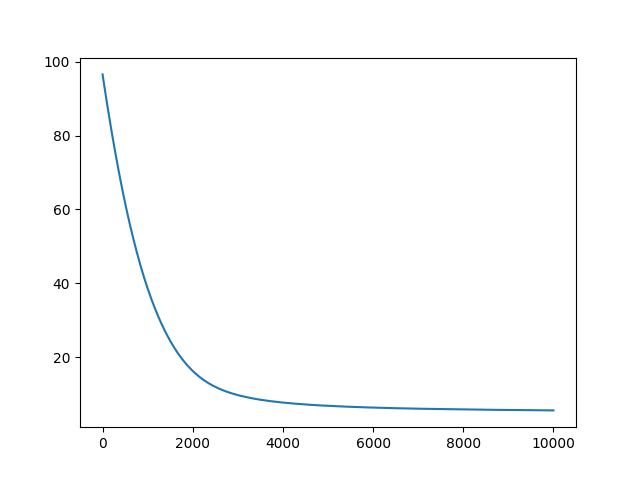
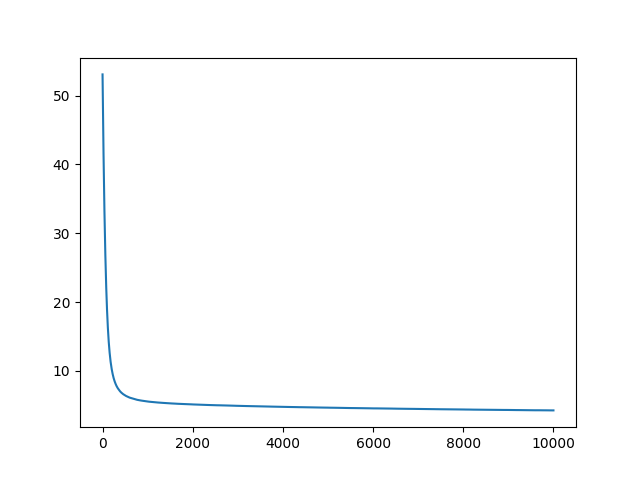
Add run.py

diff --git a/Log_reg.py b/Log_reg.py
@@ -21,17 +21,6 @@ def load_datasets():
     stats = np.array(stats)
     return stats, scores
 
-stats, scores = load_datasets()
-
-stats, min_vals, max_vals = normalize_stats(stats)
-scores = normalize_scores(scores) # normalize scores to 0 ~ 1, where 0 means 0 and 1 means 4
-
-# split datasets
-(x_train, y_train), (x_test, y_test), (x_eval, y_eval) = train_test_eval_split(stats, scores, test_ratio=0.1, eval_ratio=0.1)
-y_train = score_to_target(y_train)
-y_copy = y_test
-y_test = score_to_target(y_test)
-y_eval = score_to_target(y_eval)
 class LogisticRegression:
     def __init__(self, x_train, y_train, x_test, y_test, x_eval, y_eval):
         self._x_train = x_train
@@ -85,33 +74,46 @@ class LogisticRegression:
         prediction = self.sigmoid(x.reshape(1, size), weights)
         return np.argmax(prediction)
 
-# 학습
-log = LogisticRegression(x_train, y_train, x_test, y_test,x_eval,y_eval)
-weights, costs, eval_costs = log.learn(0.000001, 10000, 200)
-pre_cnt = 0
-pre_wr = 0
-for i in range (len(x_test)):
-    prediction = log.predict(x_test[i], weights)
-    s1 = int(prediction/5)
-    s2 = prediction%5
-    reals1 = y_copy[i][0]*4
-    reals2 = y_copy[i][1]*4
-    if s1>s2 and reals1>reals2:
-        pre_wr +=1
-    elif s1==s2 and reals1==reals2:
-        pre_wr +=1
-    elif s1<s2 and reals1<reals2:
-        pre_wr +=1
-    print(i, ' predict: [',s1,' : ',s2,']', ' real: [',reals1,':',reals2,']')
-    if s1 == reals1 and s2 == reals2:
-        pre_cnt+=1
+def run():
+    stats, scores = load_datasets()
 
-print("accuracy = ",pre_cnt/i)
-print("winrate accuracy = ",pre_wr/i)
-plt.plot(costs,label='loss')
-plt.savefig("Logistic_costs.png")
-plt.show()
-plt.cla()
-plt.plot(eval_costs,label='eval loss')
-plt.savefig("Logistic_evalloss.png")
-plt.show()
+    stats, min_vals, max_vals = normalize_stats(stats)
+    scores = normalize_scores(scores) # normalize scores to 0 ~ 1, where 0 means 0 and 1 means 4
+
+    # split datasets
+    (x_train, y_train), (x_test, y_test), (x_eval, y_eval) = train_test_eval_split(stats, scores, test_ratio=0.1, eval_ratio=0.1)
+    y_train = score_to_target(y_train)
+    y_copy = y_test
+    y_test = score_to_target(y_test)
+    y_eval = score_to_target(y_eval)
+
+    # 학습
+    log = LogisticRegression(x_train, y_train, x_test, y_test,x_eval,y_eval)
+    weights, costs, eval_costs = log.learn(0.00001, 10000, 200)
+    pre_cnt = 0
+    pre_wr = 0
+    for i in range (len(x_test)):
+        prediction = log.predict(x_test[i], weights)
+        s1 = int(prediction/5)
+        s2 = prediction%5
+        reals1 = y_copy[i][0]*4
+        reals2 = y_copy[i][1]*4
+        if s1>s2 and reals1>reals2:
+            pre_wr +=1
+        elif s1==s2 and reals1==reals2:
+            pre_wr +=1
+        elif s1<s2 and reals1<reals2:
+            pre_wr +=1
+        print(i, ' predict: [',s1,' : ',s2,']', ' real: [',reals1,':',reals2,']')
+        if s1 == reals1 and s2 == reals2:
+            pre_cnt+=1
+
+    print("accuracy = ",pre_cnt/i)
+    print("winrate accuracy = ",pre_wr/i)
+    plt.plot(costs,label='loss')
+    plt.savefig("Logistic_costs.png")
+    plt.show()
+    plt.cla()
+    plt.plot(eval_costs,label='eval loss')
+    plt.savefig("Logistic_evalloss.png")
+    plt.show()

diff --git a/ANN.py b/ANN.py
@@ -159,25 +159,25 @@ def load_datasets():
     stats = np.array(stats)
     return stats, scores
 
-stats, scores = load_datasets()
+def run(input_size=306, hidden_size=306, output_size=2, learning_rate=0.002, is_DNN_with_ADAM=True):
+    stats, scores = load_datasets()
 
-stats, min_vals, max_vals = normalize_stats(stats)
-scores = normalize_scores(scores) # normalize scores to 0 ~ 1, where 0 means 0 and 1 means 4
+    stats, min_vals, max_vals = normalize_stats(stats)
+    scores = normalize_scores(scores) # normalize scores to 0 ~ 1, where 0 means 0 and 1 means 4
 
-# split datasets
-(train_stats, train_scores), (test_stats, test_scores), (eval_stats, eval_scores) = train_test_eval_split(stats, scores, test_ratio=0.1, eval_ratio=0.1)
+    # split datasets
+    (train_stats, train_scores), (test_stats, test_scores), (eval_stats, eval_scores) = train_test_eval_split(stats, scores, test_ratio=0.1, eval_ratio=0.1)
 
-ann = ANN(input_size=306, hidden_size=306, output_size=2, learning_rate=0.002, is_DNN_with_ADAM=True) # DNN with ADAM
-# ann = ANN(input_size=306, hidden_size=306, output_size=2, learning_rate=0.002, is_DNN_with_ADAM=False) # shallow NN with SGD
+    ann = ANN(input_size=input_size, hidden_size=hidden_size, output_size=output_size, learning_rate=learning_rate, is_DNN_with_ADAM=is_DNN_with_ADAM)
+    ann.learn(train_stats, train_scores, eval_stats, eval_scores, iters_num=10000, batch_size=200, loss_interval=100, lr_decay=0.99995)
 
-ann.learn(train_stats, train_scores, eval_stats, eval_scores, iters_num=10000, batch_size=200, loss_interval=100, lr_decay=0.99995)
-print(ann.predict(test_stats)[:10])
-print(np.around(test_scores[:10]*4))
-acc, acc_win = ann.accuracy(test_stats, test_scores)
-print(f"accuracy: {acc}, winning accuracy: {acc_win}")
+    print(ann.predict(test_stats)[:10])
+    print(np.around(test_scores[:10]*4))
+    acc, acc_win = ann.accuracy(test_stats, test_scores)
+    print(f"accuracy: {acc}, winning accuracy: {acc_win}")
 
-# show loss and eval loss
-plt.plot(ann.loss_list, label='loss')
-plt.plot(ann.eval_loss_list, label='eval loss')
-plt.legend()
-plt.show()
+    # show loss and eval loss
+    plt.plot(ann.loss_list, label='loss')
+    plt.plot(ann.eval_loss_list, label='eval loss')
+    plt.legend()
+    plt.show()

diff --git a/run.py b/run.py
@@ -1,0 +1,12 @@
+import Log_reg
+import ANN
+
+if __name__ == "__main__":
+    print('Logistic Regression')
+    Log_reg.run()
+    print()
+    print('Shallow Neural Network with SGD')
+    ANN.run(input_size=306, hidden_size=306//6, output_size=2, learning_rate=0.002, is_DNN_with_ADAM=False)
+    print()
+    print('Deep Neural Network with ADAM')
+    ANN.run(input_size=306, hidden_size=306//6, output_size=2, learning_rate=0.002, is_DNN_with_ADAM=True)
